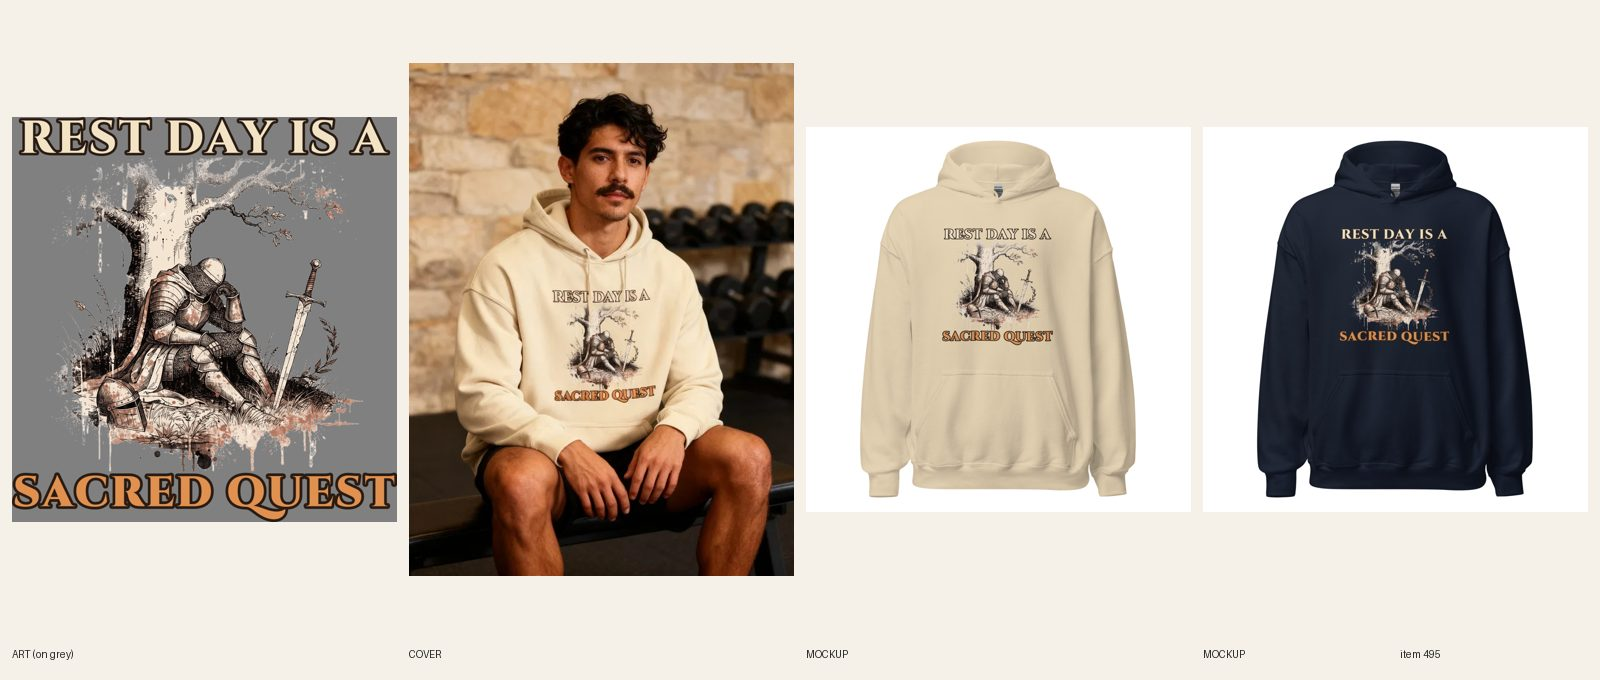
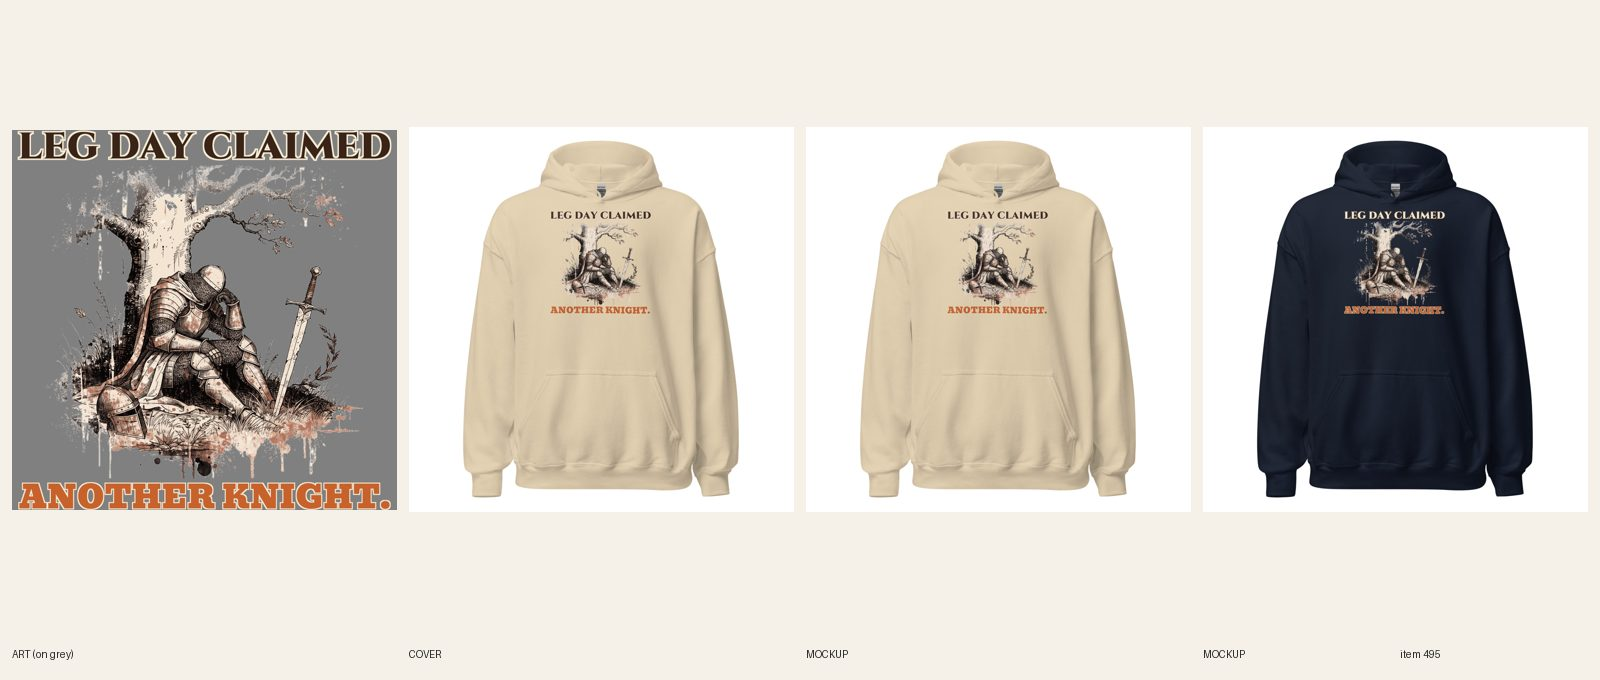
[C] review 495 (redo)
Claude-Session: https://claude.ai/code/session_01CCHcDj8LcJJ8qUPtKE3cvn

Changed region(s): [[0.0, 0.0926, 0.5, 0.8647], [0.8438, 0.3088, 0.9062, 0.525], [0.5938, 0.3088, 0.6562, 0.525]]

diff --git a/scripts/c-second.py b/scripts/c-second.py
@@ -1,0 +1,23 @@
+#!/usr/bin/env python3
+"""c-second.py <dir> <sync_pid> <catalog> <FW> <TOP> <Color> <print.png> <wait_pid>
+Second per-color file for a product whose first c-redo sync is already running: uploads the print, makes the <Color> front mockup
+(<dir>/m_<Color>.jpg, murl_<Color>.txt), and queues the paced sync for that color after process <wait_pid> exits."""
+import os, sys, json, subprocess, time, urllib.request, shlex
+d, pid, cat, fw, top, color, png, wait = sys.argv[1:9]
+H = {'Authorization': 'Bearer ' + os.environ['PRINTFUL_TOKEN'], 'User-Agent': 'gtc'}
+def get(p): return json.load(urllib.request.urlopen(urllib.request.Request('https://api.printful.com' + p, headers=H), timeout=60))['result']
+url = subprocess.check_output([sys.executable, 'scripts/fal-host.py', png], text=True).strip()
+fid = subprocess.check_output([sys.executable, 'scripts/pf-sync.py', 'upload', url, os.path.basename(png)], text=True).strip()
+for _ in range(30):
+    f = get(f'/files/{fid}')
+    if f.get('width') and f.get('status') == 'ok': break
+    time.sleep(4)
+print(color, fid, f['width'], f['height'], flush=True); open(f'{d}/fid_{color}', 'w').write(fid)
+env = dict(os.environ, FW=fw, TOP=top, FORCE='1', ONLY='/ ' + color + ' /')
+cmd = f"while kill -0 {int(wait)} 2>/dev/null; do sleep 5; done; {sys.executable} scripts/pf-sync.py setfile {pid} {fid} > {shlex.quote(d + '/sync_' + color + '.log')} 2>&1"
+subprocess.Popen(['bash', '-c', cmd], env=env, start_new_session=True, stdout=subprocess.DEVNULL, stderr=subprocess.DEVNULL)
+vs = get(f'/sync/products/{pid}')['sync_variants']
+v = next(v for v in vs if f' / {color} / M' in v['name'] or f' / {color} / L' in v['name'])
+subprocess.run([sys.executable, 'scripts/pf-mockup.py', cat, f['url'], str(f['width']), str(f['height']), '-', str(v['variant_id']), f'{d}/mock_{color}.json'], env=env, check=True, stdout=subprocess.DEVNULL)
+url = json.load(open(f'{d}/mock_{color}.json'))[str(v['variant_id'])]['front:main']
+open(f'{d}/m_{color}.jpg', 'wb').write(urllib.request.urlopen(url).read()); open(f'{d}/murl_{color}.txt', 'w').write(url); print(color, 'MOCKUP', url, flush=True)

diff --git a/designs/c495/make.py b/designs/c495/make.py
@@ -1,0 +1,36 @@
+from PIL import Image, ImageDraw, ImageFont, ImageFilter
+FD='designs/fonts/'
+RED=(196,52,44,255); BROWN=(70,40,24,255); RUST=(200,98,44,255); CREAM=(246,236,214,255); BROWN=(58,36,24,255)
+def line(text,font,wfrac,W,fill,key,kw=31,track=0,var=None):
+    def mk(sz):
+        f=ImageFont.truetype(FD+font,sz)
+        if var: f.set_variation_by_axes(var)
+        return f
+    f=mk(800); adv=[f.getlength(c) for c in text]
+    tot=sum(adv)+track*(len(text)-1); size=int(800*W*wfrac/tot)
+    f=mk(size); adv=[f.getlength(c) for c in text]; tr=int(track*size/800)
+    asc,desc=f.getmetrics(); tot=int(sum(adv)+tr*(len(text)-1))
+    pad=80; im=Image.new('RGBA',(tot+2*pad,asc+desc+2*pad),(0,0,0,0))
+    def draw(layer,col):
+        d=ImageDraw.Draw(layer); x=pad
+        for c,a in zip(text,adv): d.text((x,pad),c,font=f,fill=col); x+=a+tr
+    k=Image.new('L',im.size,0); d=ImageDraw.Draw(k); x=pad
+    for c,a in zip(text,adv): d.text((x,pad),c,font=f,fill=255); x+=a+tr
+    k=k.filter(ImageFilter.MaxFilter(kw)); im.paste(Image.new('RGBA',im.size,key),(0,0),k)
+    draw(im,fill)
+    return im.crop(im.getbbox())
+src=Image.open('docs/print-files/495-rest-day-sacred-quest.png').convert('RGBA')
+W=src.width; art=src.crop((0,356,W,3141))
+import sys
+NV=len(sys.argv)>1
+h1=line("LEG DAY CLAIMED",'Cinzel[wght].ttf',0.97,W,CREAM if NV else BROWN,BROWN if NV else CREAM,kw=27,var=[900])
+h2=line("ANOTHER KNIGHT.",'Bevan-Regular.ttf',0.97,W,RUST,CREAM,kw=19,track=14)
+print('h1',h1.size,'h2',h2.size,'ratio h2/h1',h2.height/h1.height)
+g=34; H=h1.height+g+art.height+g+h2.height
+out=Image.new('RGBA',(W,H),(0,0,0,0))
+out.alpha_composite(h1,((W-h1.width)//2,0)); y=h1.height+g
+out.alpha_composite(art,(0,y)); y+=art.height+g
+out.alpha_composite(h2,((W-h2.width)//2,y))
+out.save('docs/print-files/495-v2-leg-day%s.png'%('-navy' if NV else '')); print(out.size,H/W)
+for n,c in ((('navy',(38,50,88,255)),) if NV else (('sand',(214,196,160,255)),('navy0',(38,50,88,255)))):
+    bg=Image.new('RGBA',out.size,c); bg.alpha_composite(out); bg.convert('RGB').resize((600,int(600*H/W))).save(f'designs/c495/prev_{n}.png')

diff --git a/docs/pipeline/495-gym-hoodie-rest-day-is-a-sacred-quest.md b/docs/pipeline/495-gym-hoodie-rest-day-is-a-sacred-quest.md
@@ -1,4 +1,4 @@
-status: REDO
+status: REVIEW
 lane: C
 type: new
 id: 495
@@ -32,3 +32,4 @@ kd: 16
 - 2026-10-17 21:35 UTC builder [C]: REVIEW. Sync 12/12. Sheet docs/review/495.jpg. design-crops and variant-photo audit cover published products only: rerun when ACTIVE. Local cohesion audit not run (no spec file); copy checked by hand against the art. 
 - 2026-10-17 22:39 UTC director: APPROVED, LIVE. ACTIVE + Online Store, Headless and Google & YouTube; audit --handle PASS (0 warn). Copy polished by the director first (R8: keyword counts, superlatives, false claims).
 - 2026-10-18 17:22 UTC director: QUALITY RESET grade C (new line + type), REDO. The product stays ACTIVE (same handle, URL, title keyword). 1. Line (R3.12, quality-reset 'Lines'): "REST DAY IS A / SACRED QUEST": Mild, mostly describes the knight resting; no punch. Write 5 candidates, keep the one a stranger laughs at in 3 seconds without backstory; kill lines that only describe the picture; if none of the 5 is funny, PARK it. 2. Quality reset type bar (docs/backlog/quality-reset.md, 'The new bar'): headline at least 90% of the art width, heavy, colors pulled from the art; second line at least 45% of the headline's height, never a thin script on a dark or mid garment; use the lettering as a shape (arch, stacked lockup, words breaking into the art), not a plain bar above and a script line below; no font used on more than 1 in 6 of the last 30 designs. 3. Keep the art if it carries the new line, else one new illustration (R4/R5). New print means a new cover per R6.10, copy line one rewritten for the new joke (R8.3), and a fresh review sheet (R7.7). While quality-reset.md says PAUSED, only lane A builds, and only the samples step 2 names.
+- 2026-10-20 06:45 UTC builder [C]: REDO new line + type (grade C). 5 candidates: "LEG DAY CLAIMED / ANOTHER KNIGHT." (kept: a slumped knight is the lifter after squats; one read), "QUEST ABANDONED. LEGS TOMORROW.", "BY ORDER OF THE CROWN: RECOVER", "SQUIRE, SPOT ME" (already #445), "HERE LIES MY LEG DAY". Same knight/oak art. LEG DAY CLAIMED in Cinzel Black 97% of the art width; ANOTHER KNIGHT. in Bevan 97% width, rust with cream keyline (91% of the first line's height). Light-file (R5.3.8): Sand file 1090154570 has the top line in dark brown with cream keyline; Navy file 1090155376 has it cream with a brown keyline (docs/print-files/495-v2-leg-day.png / -navy.png); logged: light file Sand on file 1090154570, headline fill brown. Print 3415 x 3375, FW 1500 TOP 0, 12/12 relinked per color. 2 fronts replaced in place, read at phone size. Copy, FAQ and SEO rewritten for the new joke; keyword medieval hoodie kept in the SEO and story. Plain product shot. fal $0.

diff --git a/docs/intake-log.md b/docs/intake-log.md
@@ -11,6 +11,7 @@ RUNNING lane B since 2026-10-20 03:28 UTC
 2026-10-20 03:41 UTC — [B] Builder run: redid #362 Women's Baseball hoodie (line + type: MISSED THE PLAY. / SEEDS WERE GOOD., same art, Bowlby One, Navy + Sand light files, 12/12 synced). REVIEW. fal $0.
 2026-10-20 05:26 UTC — [E] Builder run: redid #388 Women's Christmas crewneck (line + type: SORRY, I'M BOOKED TILL JANUARY., new party-calendar art, Navy + Sand files, 12/12 synced, copy updated, plain product shot). REVIEW. fal $0.08.
 RUNNING lane C since 2026-10-20 03:23 UTC
+2026-10-20 06:47 UTC — [C] Builder run: redid #495 Men's Gym medieval hoodie (new line + type: LEG DAY CLAIMED / ANOTHER KNIGHT., Cinzel Black + Bevan, same knight art, Sand file 1090154570 + Navy cream-top file 1090155376, FW 1500 TOP 0, 12/12 relinked, 2 fronts replaced in place, copy + SEO updated, plain product shot). REVIEW. fal $0.
 2026-10-20 06:07 UTC — [C] Builder run: redid #323 Women's Capybara oversized hoodie (new line + type: PER MY LAST EMAIL, / I'M SOAKING., Anton + Bowlby One, same hot-spring art, Dust file 1090151395 + Navy cream-top file, FW 1500 TOP 75, 12/12 relinked, 2 fronts replaced in place, copy + SEO updated, plain product shot). REVIEW. fal $0.
 2026-10-20 05:27 UTC — [C] Builder run: redid #561 Unisex Pitbull hoodie (new line + type: THE BELLY IS OPEN. / NO APPOINTMENT NEEDED., Bowlby One + Anton, same belly-up art, file 1090148539, FW 1500 TOP 0, 12/12 relinked, 2 fronts replaced in place, copy + SEO updated, plain product shot). REVIEW. fal $0.
 2026-10-20 05:02 UTC — [C] Builder run: redid #552 Women's Knitting hoodie (new line + type: DON'T TALK TO ME. / I'M COUNTING., Anton + Bowlby One, same armchair art, file 1090141621, FW 1500 TOP 0, 12/12 relinked, 2 fronts replaced in place, copy + SEO updated, plain product shot). REVIEW. fal $0.
